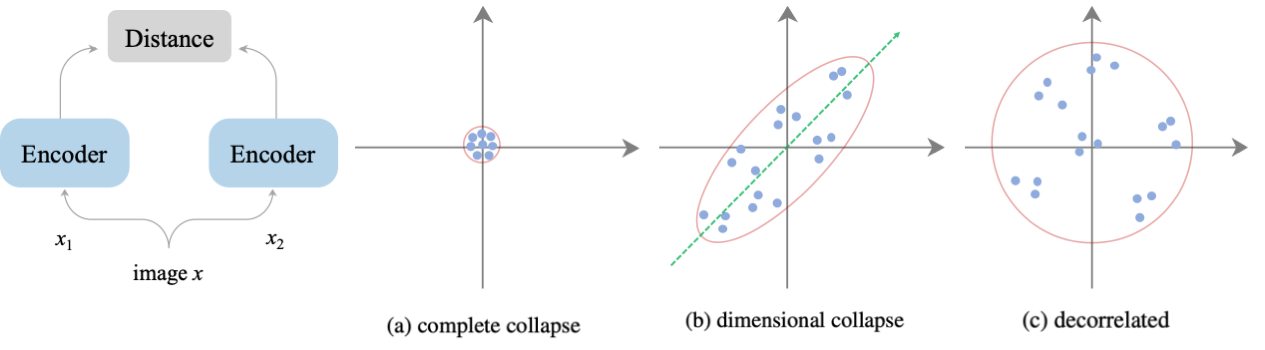
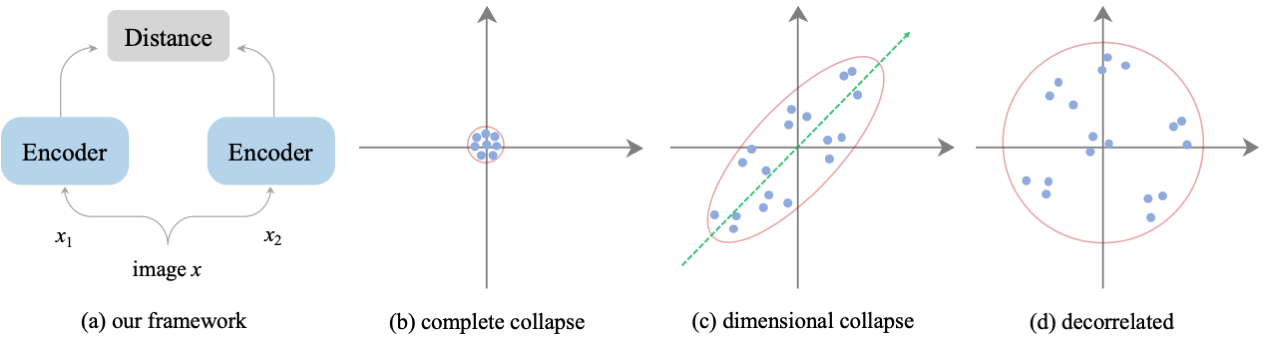
fix fig1

diff --git a/index.html b/index.html
@@ -51,7 +51,7 @@
                     </div>
                     <div class="text">
                         <p>Figure 1: 
-                            An overview of the key components of this work: (a) and (b) are two reachable collapse patterns in self-supervised settings; (c) is an illustration of the goal of feature decorrelation; (d) is a sketch of the framework used in this work.
+                            An overview of the key components of this work: (a) is a sketch of the framework used in this work; (b) and (c) are two reachable collapse patterns in self-supervised settings; (d) is an illustration of the goal of feature decorrelation; (d) is a sketch of the framework used in this work.
                             
                             
                             <!-- Constructing views for contrastive learning is important. But what are good views? We hypothesize good views should be those that only share label information w.r.t the downstream task, while throwing away nuisance factors, which we call <i>InfoMin</i> principle. -->
@@ -106,6 +106,7 @@ The capability of correlation as an unsupervised metric and the gains from featu
 
                 <div class="content">
                     <div class="text">
+
                         <h3>Different types of mode collapse when no negative sample is used</h3>
 
 
